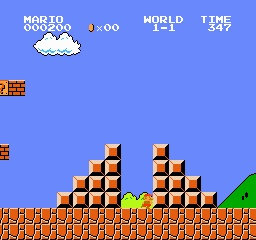
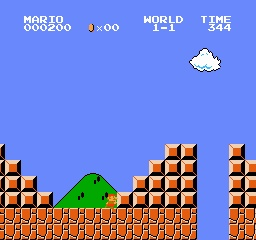
modify jump_enemy and manage to jump through the first stair

diff --git a/rule-based.py b/rule-based.py
@@ -364,7 +364,7 @@ def jump_enemy(mario_location, enemy_location):
     action = 3
 
     if distance > 0 and not is_below_enemy(mario_location, enemy_location):
-        if distance <= 36:
+        if distance <= 30:
             action = 2
 
     return action
@@ -384,8 +384,14 @@ def jump_first_left_stair(mario_location, first_left_stair_location):
     action = 3
 
     if distance > 0:
-        if distance <= 40:
+        if distance <= 60:
             action = 4
+
+        if distance <= 30 and is_on_ground(mario_location):
+            action = 6
+
+            # if distance >= 45:
+            #     action = 2
     else:
         if is_on_stair(mario_location, first_left_stair_location):
             action = 2
@@ -400,8 +406,11 @@ def jump_first_right_stair(mario_location, first_right_stair_location):
         if distance <= 60:
             action = 4
     
-            if action >= 40:
+            if distance <= 30 and is_on_ground(mario_location):
                 action = 6
+
+                if distance >= 45:
+                    action = 2
 
     return action
 
@@ -409,12 +418,14 @@ def jump_second_stair(mario_location, second_stair_location):
     distance = second_stair_location[0] - mario_location[0]
     action = 3
 
-    if distance > 0:
-        if distance <= 40:
-            action = 4
+    if distance <= 50:
+            action = 2
 
-            if distance <= 10:
+            if distance <= 30 and is_on_ground(mario_location):
                 action = 6
+
+                # if distance >= 45:
+                #     action = 2
     else:
         if is_on_stair(mario_location, second_stair_location):
             action = 2
@@ -429,6 +440,9 @@ def is_below_enemy(mario_location, enemy_location):
 
 def is_on_stair(mario_location, stair_location):
     return mario_location[1] < stair_location[1]
+
+def is_on_ground(mario_location):
+    return mario_location[1] >= 190
 
 env = gym.make("SuperMarioBros-v0", apply_api_compatibility=True, render_mode="human")
 env = JoypadSpace(env, SIMPLE_MOVEMENT)
